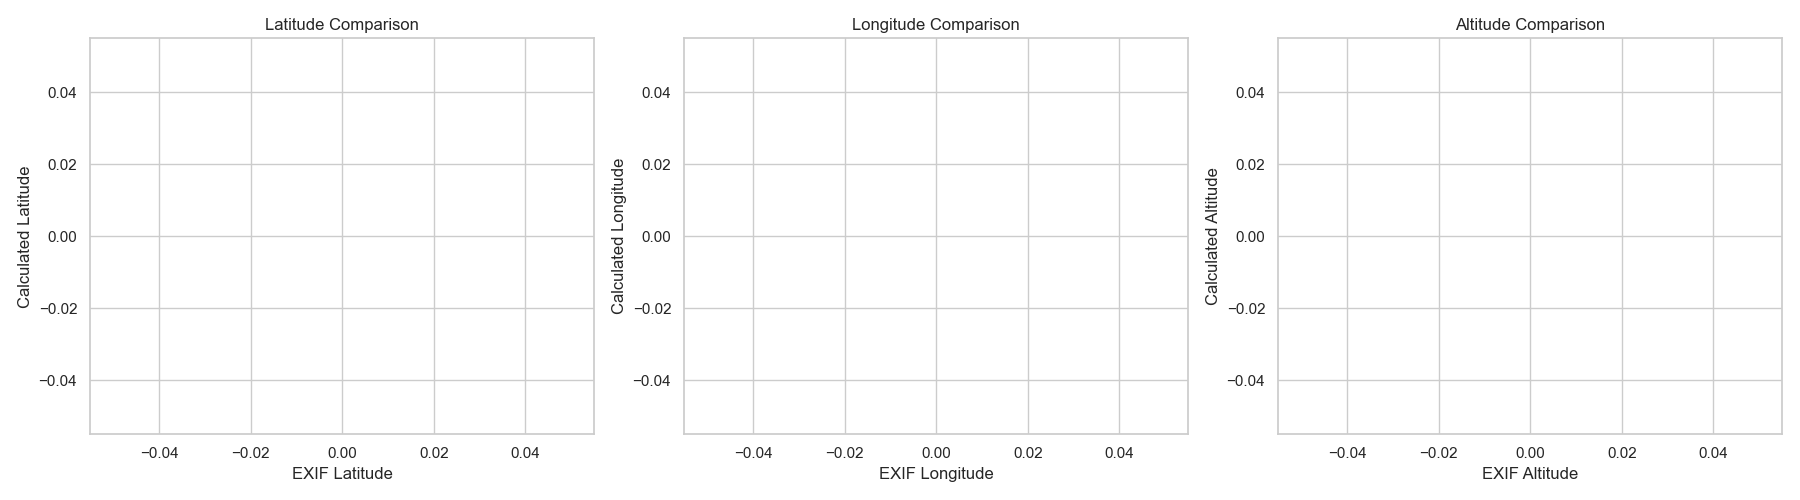
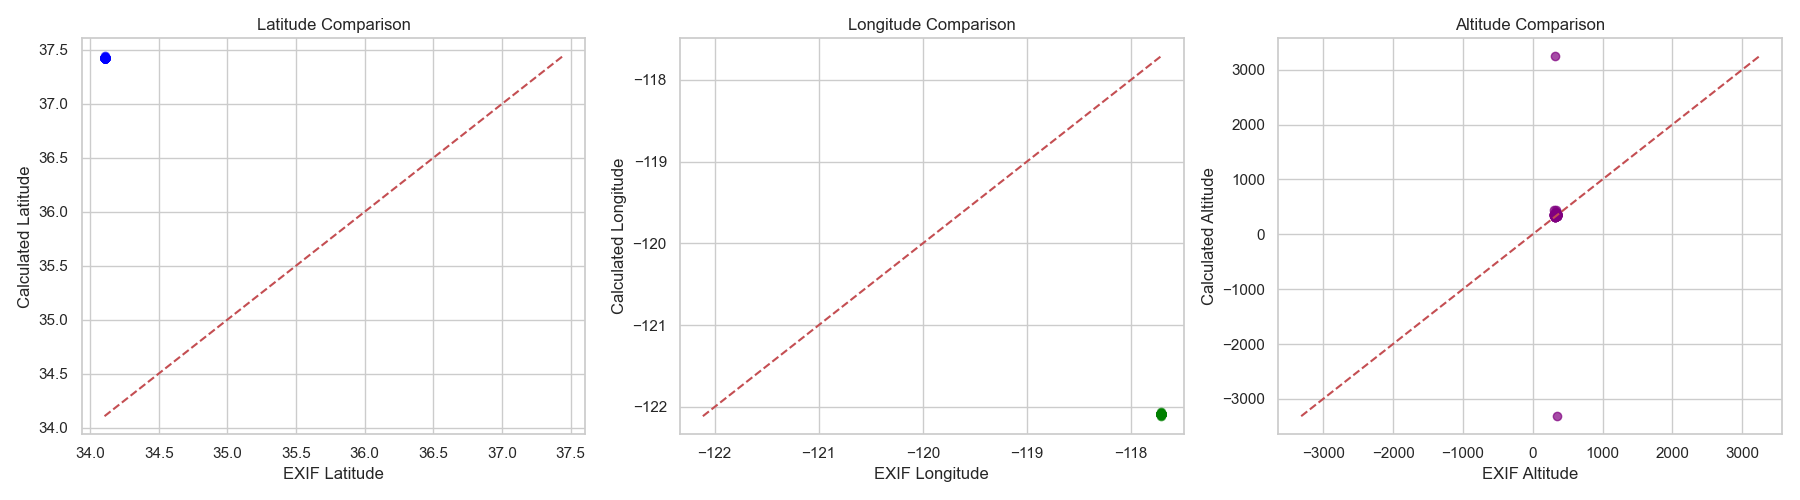
will work once santi pushes correct base coords

diff --git a/WORKING_FILES/GlobalDetection.py b/WORKING_FILES/GlobalDetection.py
@@ -79,10 +79,10 @@ detector = apriltag.Detector(families="tag16h5")
 # -------------------------
 # Known latitude/longitude for each tag (in degrees); adjust to your actual coordinates.
 tag_global_coords = {
-    0: (37.4219999, -122.0840575),
-    1: (37.4219998, -122.0840574),
-    2: (37.4219997, -122.0840573),
-    3: (37.4219996, -122.0840572)
+    0: (34.4219999, -122.0840575),
+    1: (34.4219998, -122.0840574),
+    2: (34.4219997, -122.0840573),
+    3: (34.4219996, -122.0840572)
 }
 
 # Assume that all tags lie on a plane at a known altitude.
